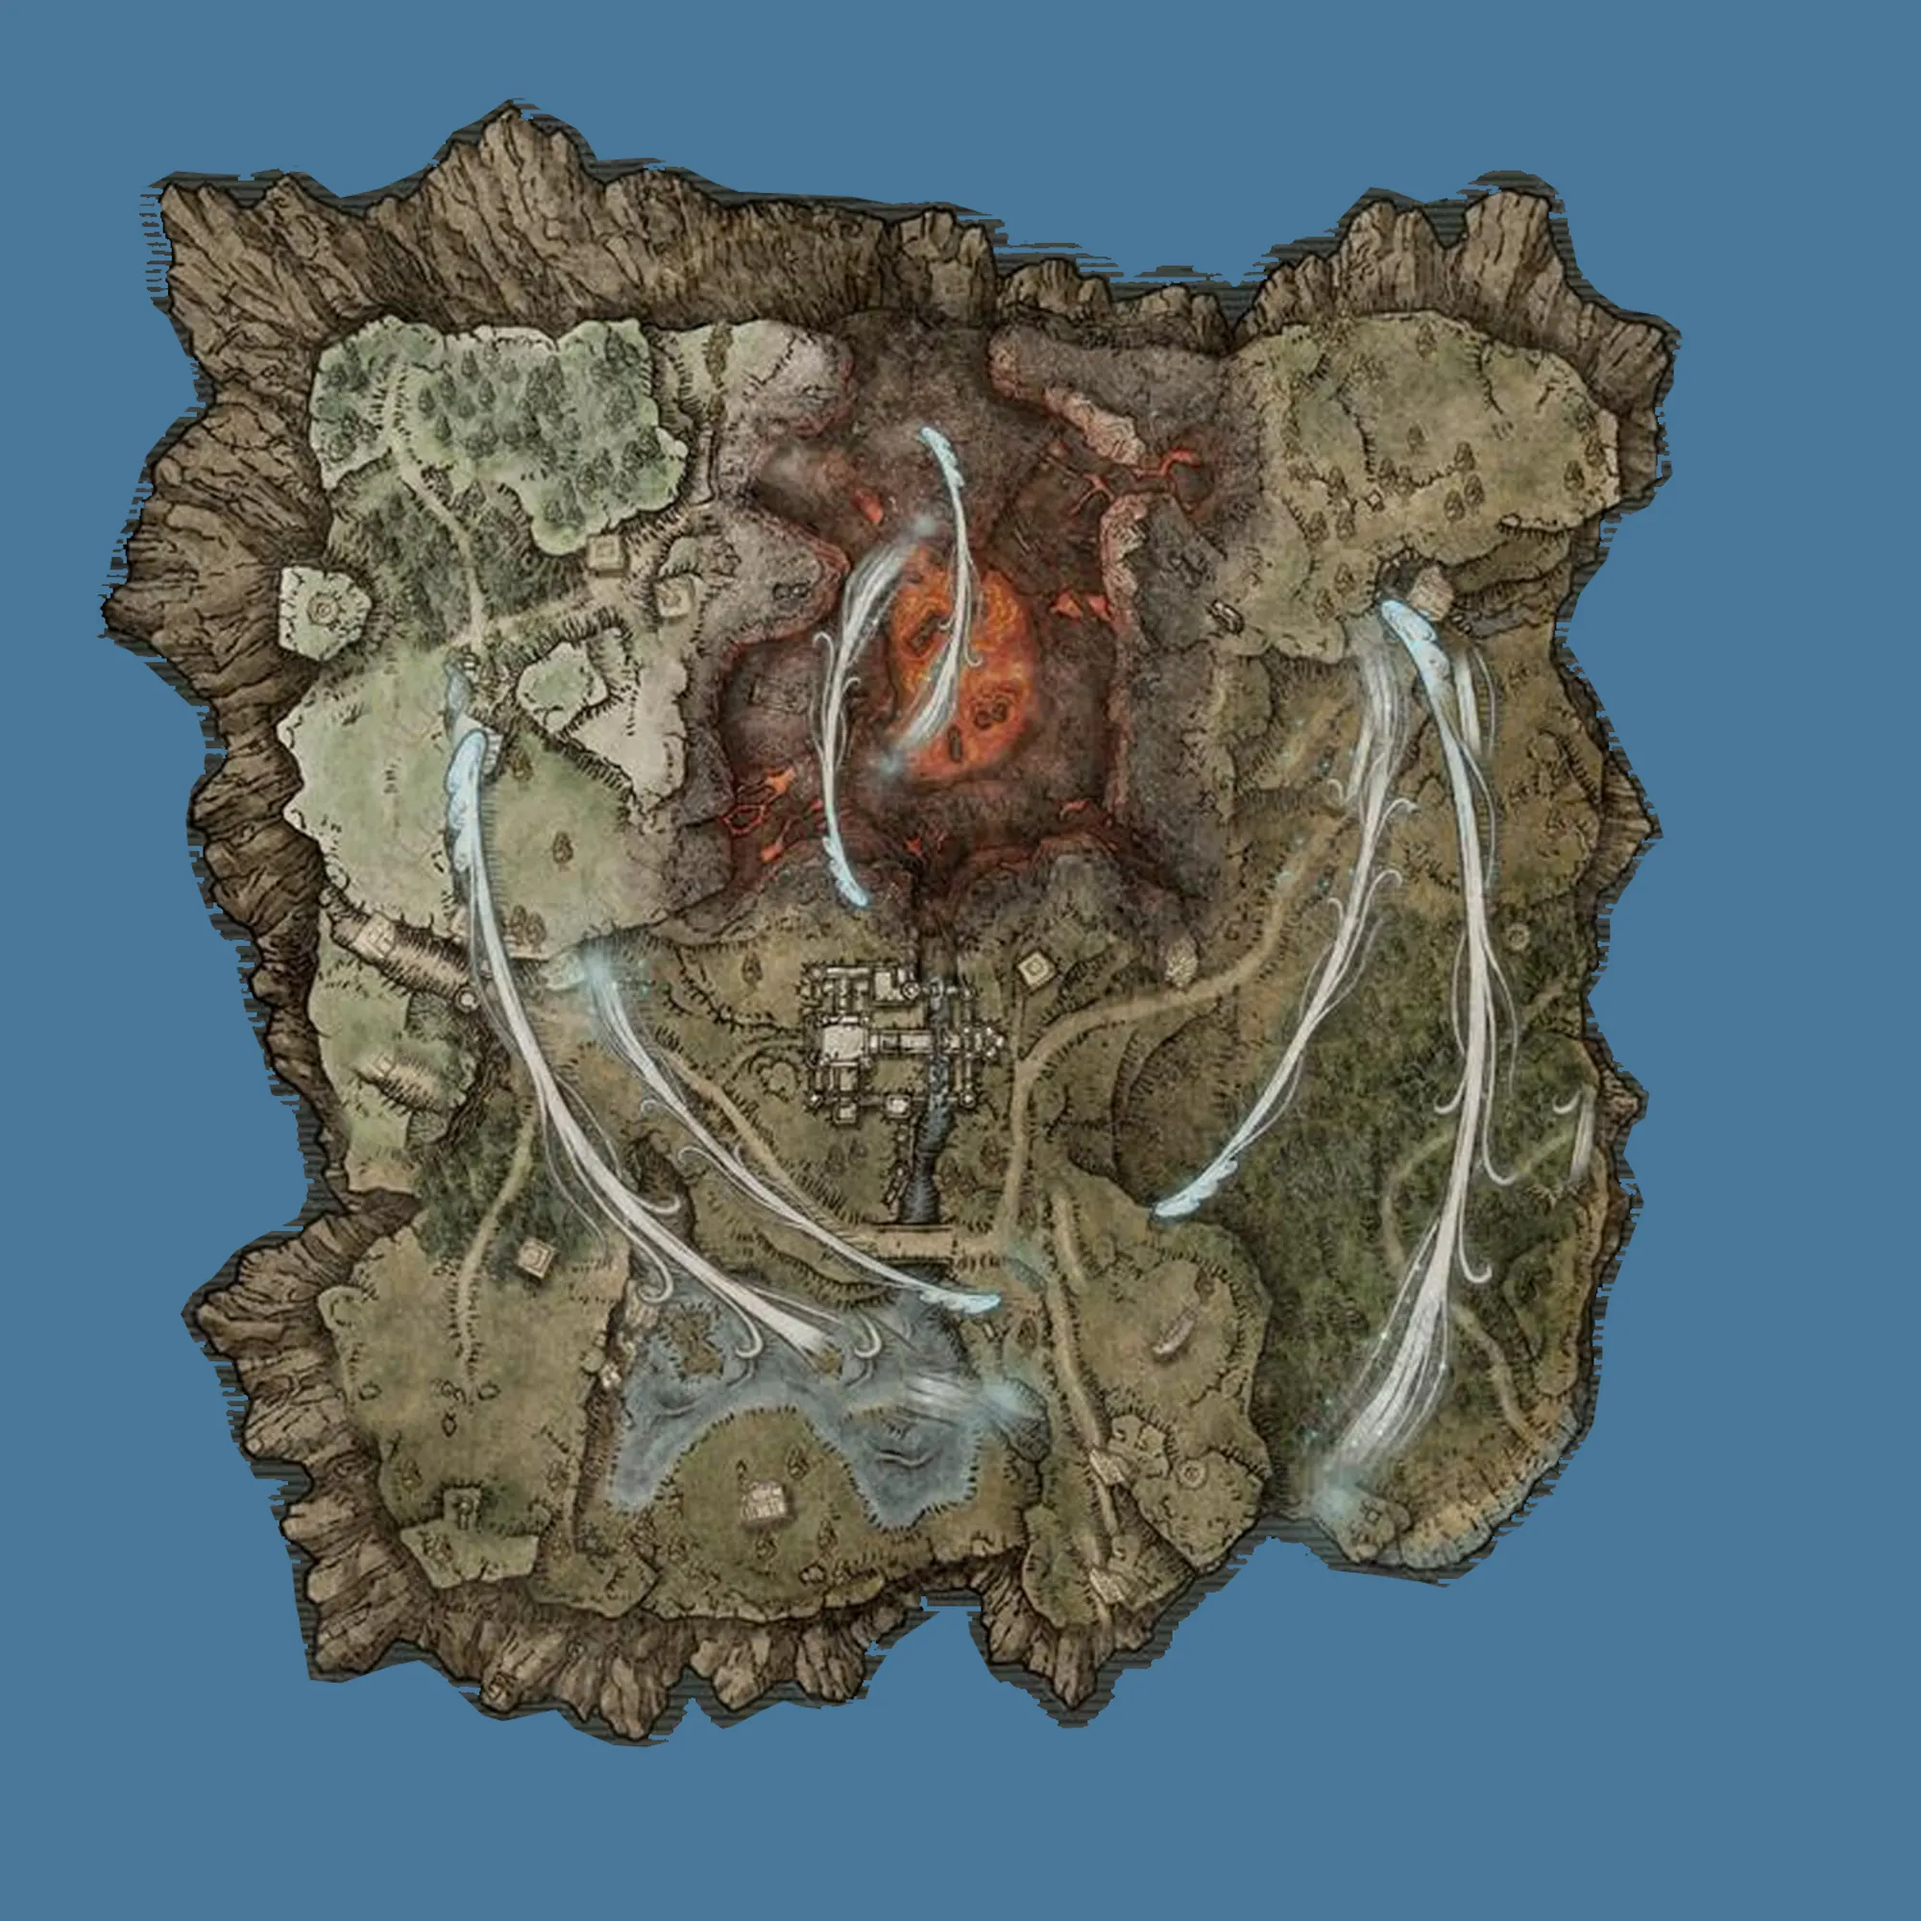
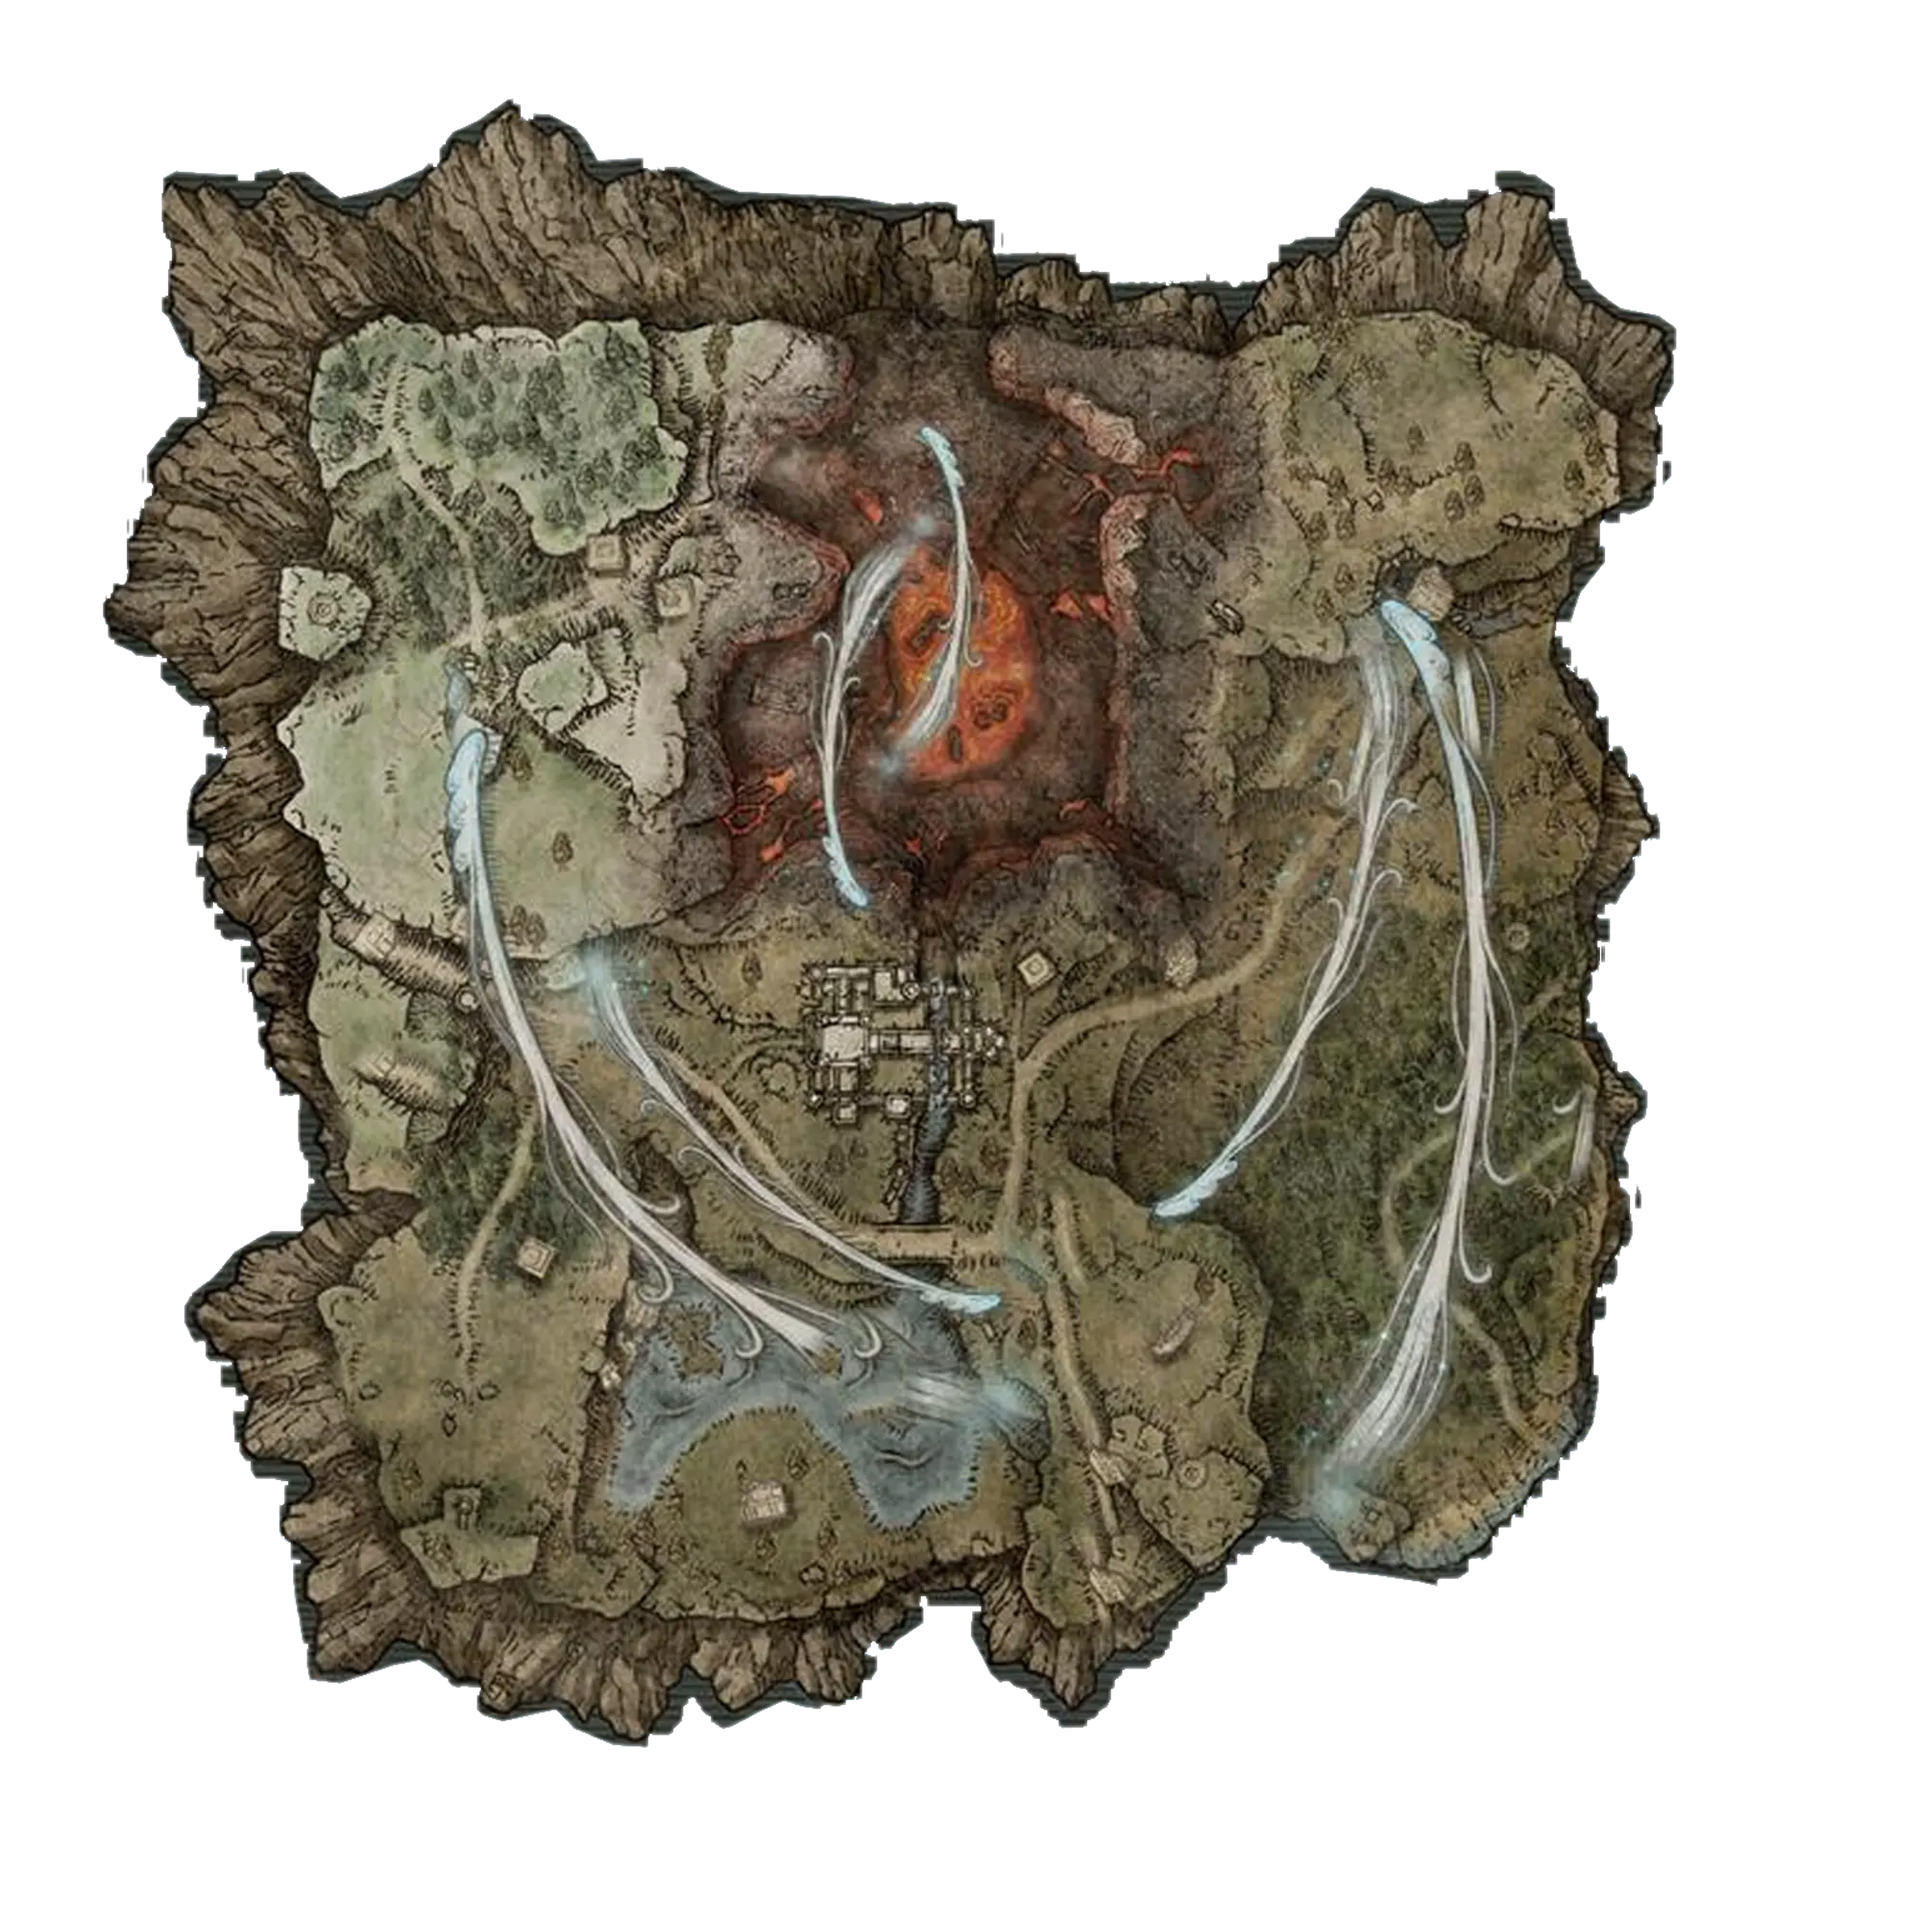
fix: maps sit on the app's black instead of a baked blue ocean slab
The Limveld maps carried a flat blue ocean over ~44% of the image, and Great
Hollow a brown haze, so every map screen showed a big blue or brown square.
The import now flood-fills the background from the image edges (inland water
stays), clears the grey streaks the sources leave off the coast, and feathers
the coastline inward 2px. Same size and framing, so slot coordinates hold.

diff --git a/scripts/import-seeds.ts b/scripts/import-seeds.ts
@@ -217,6 +217,102 @@ function reportCoverage(seeds: any[], bossNotes: Record<string, string>) {
   console.log('structure keys without any icon:', noIcon.length ? noIcon.sort().join(', ') : 'none')
 }
 
+/** How much of a pixel is map (1) rather than background (0). */
+export type Coverage = (r: number, g: number, b: number, a: number) => number
+
+// A flat baked ocean: within HARD of its colour is ocean, beyond SOFT is land, between is the anti-aliased coast.
+export const oceanCoverage = ([or, og, ob]: readonly number[], hard = 24, soft = 72): Coverage => (r, g, b) => {
+  const d = Math.hypot(r - or, g - og, b - ob)
+  return Math.min(1, Math.max(0, (d - hard) / (soft - hard)))
+}
+// A translucent haze around the map (Great Hollow): faint is background, near opaque is map.
+export const hazeCoverage = (clear = 180, solid = 250): Coverage => (_r, _g, _b, a) =>
+  Math.min(1, Math.max(0, (a - clear) / (solid - clear)))
+
+/**
+ * Makes the background that touches the image edges transparent, so the map sits on the app's black.
+ * A flood fill from the edges, not a colour key: water enclosed by land keeps its colour. The fill
+ * only climbs toward the map (or stays level), so it follows a coast's soft edge without leaking
+ * through it into inland water. `feather` px of the coastline are then softened inward, never
+ * outward, so no background colour shows as a fringe. Specks of map no taller than `streak` px,
+ * with cleared background above and below, are cleared too (see below).
+ */
+export function keyBackground(
+  rgba: Uint8Array, width: number, height: number, coverage: Coverage,
+  { feather = 2, streak = 12 }: { feather?: number; streak?: number } = {},
+): Uint8Array {
+  const n = width * height
+  const at = (p: number) => coverage(rgba[p * 4], rgba[p * 4 + 1], rgba[p * 4 + 2], rgba[p * 4 + 3])
+  const cover = new Float32Array(n).fill(1)
+  const seen = new Uint8Array(n)
+  const queue = new Int32Array(n)
+  let head = 0
+  let tail = 0
+  const visit = (p: number, from: number) => {
+    if (seen[p]) return
+    const c = at(p)
+    if (c >= 1 || c + 0.15 < from) return
+    seen[p] = 1
+    cover[p] = c
+    queue[tail++] = p
+  }
+  for (let x = 0; x < width; x++) { visit(x, 0); visit((height - 1) * width + x, 0) }
+  for (let y = 0; y < height; y++) { visit(y * width, 0); visit(y * width + width - 1, 0) }
+  while (head < tail) {
+    const p = queue[head++]
+    const x = p % width
+    const c = cover[p]
+    if (x > 0) visit(p - 1, c)
+    if (x < width - 1) visit(p + 1, c)
+    if (p >= width) visit(p - width, c)
+    if (p < n - width) visit(p + width, c)
+  }
+  // The Limveld sources carry 1-3 px tall grey streaks in the ocean along the coast (a broken
+  // shadow band). A run that short, with cleared ocean above and below, is a streak, not land.
+  const cleared = (p: number) => seen[p] === 1 && cover[p] === 0
+  for (let x = 0; x < width; x++) {
+    let start = -1
+    for (let y = 0; y <= height; y++) {
+      const p = y * width + x
+      const keep = y < height && cover[p] > 0
+      if (keep && start < 0) start = y
+      if (keep || start < 0) continue
+      const above = start === 0 || cleared((start - 1) * width + x)
+      const below = y === height || cleared(p)
+      if (y - start <= streak && above && below) for (let k = start; k < y; k++) cover[k * width + x] = 0
+      start = -1
+    }
+  }
+  const soft = feather > 0 ? boxBlur(cover, width, height, feather) : cover
+  const out = new Uint8Array(rgba)
+  for (let p = 0; p < n; p++) {
+    const c = Math.min(cover[p], soft[p])
+    if (c < 1) out[p * 4 + 3] = Math.round(rgba[p * 4 + 3] * c)
+  }
+  return out
+}
+
+function boxBlur(src: Float32Array, width: number, height: number, r: number): Float32Array {
+  const pass = (from: Float32Array, horizontal: boolean) => {
+    const to = new Float32Array(from.length)
+    const [lines, len] = horizontal ? [height, width] : [width, height]
+    for (let l = 0; l < lines; l++) {
+      const idx = (i: number) => (horizontal ? l * width + i : i * width + l)
+      for (let i = 0; i < len; i++) {
+        let sum = 0
+        let count = 0
+        for (let k = Math.max(0, i - r); k <= Math.min(len - 1, i + r); k++) { sum += from[idx(k)]; count++ }
+        to[idx(i)] = sum / count
+      }
+    }
+    return to
+  }
+  return pass(pass(src, true), false)
+}
+
+// The Limveld maps' baked ocean colour.
+const OCEAN = [73, 119, 153]
+
 async function copyAssets() {
   mkdirSync('public/maps', { recursive: true })
   const maps: Record<string, string> = {
@@ -230,7 +326,12 @@ async function copyAssets() {
     // Great Hollow's source encodes far less cleanly than the others (878 KB at 2000px/q78, over the
     // 500 KB budget); the slot grid is percentage-based, so a smaller image is a safe way to shrink it.
     const [size, quality] = earth === 'great-hollow' ? [1400, 70] : [2000, 78]
-    await image.resize(size, size).webp({ quality }).toFile(`public/maps/${earth}.webp`)
+    // The baked ocean (or Great Hollow's haze) becomes transparent, so the map sits on the app's black.
+    const { data, info } = await image.ensureAlpha().raw().toBuffer({ resolveWithObject: true })
+    const coverage = earth === 'great-hollow' ? hazeCoverage() : oceanCoverage(OCEAN)
+    const keyed = keyBackground(data, info.width, info.height, coverage)
+    await sharp(keyed, { raw: { width: info.width, height: info.height, channels: 4 } })
+      .resize(size, size).webp({ quality }).toFile(`public/maps/${earth}.webp`)
   }
   mkdirSync('public/structures', { recursive: true })
   for (const file of readdirSync('data/raw/assets/icons')) {

diff --git a/scripts/import-seeds.test.ts b/scripts/import-seeds.test.ts
@@ -1,6 +1,6 @@
 import { readFileSync } from 'node:fs'
 import { describe, expect, it } from 'vitest'
-import { toStructureKey, toNightlord, toEvent, hasCjk, toBossNotes } from './import-seeds.ts'
+import { toStructureKey, toNightlord, toEvent, hasCjk, toBossNotes, keyBackground, oceanCoverage } from './import-seeds.ts'
 
 const aliases = JSON.parse(readFileSync('data/raw/aliases.json', 'utf8'))
 
@@ -58,5 +58,64 @@ describe('import translation', () => {
     it('rejects one shown name meaning two bosses', () => {
       expect(() => toBossNotes(details, [['Sentinel', 'tree_sentinel'], ['Sentinel', 'demi_human_queen']])).toThrow(/two bosses/)
     })
+  })
+})
+
+describe('map background keying', () => {
+  const OCEAN = [73, 119, 153] as const
+  const LAND = [120, 100, 60] as const
+  // 11x11: an ocean border two pixels deep, land inside, and a 3x3 "lake" of ocean colour at the centre.
+  const island = () => {
+    const size = 11
+    const rgba = new Uint8Array(size * size * 4)
+    for (let y = 0; y < size; y++) {
+      for (let x = 0; x < size; x++) {
+        const edge = x < 2 || y < 2 || x > 8 || y > 8
+        const lake = x >= 4 && x <= 6 && y >= 4 && y <= 6
+        rgba.set([...(edge || lake ? OCEAN : LAND), 255], (y * size + x) * 4)
+      }
+    }
+    return { rgba, size }
+  }
+  const alphaAt = (rgba: Uint8Array, size: number, x: number, y: number) => rgba[(y * size + x) * 4 + 3]
+
+  it('clears the ocean reached from the edges and keeps an enclosed lake of the same colour', () => {
+    const { rgba, size } = island()
+    const out = keyBackground(rgba, size, size, oceanCoverage(OCEAN), { feather: 0, streak: 3 })
+    expect(alphaAt(out, size, 0, 0)).toBe(0)
+    expect(alphaAt(out, size, 1, 5)).toBe(0)
+    expect(alphaAt(out, size, 5, 5)).toBe(255)
+    expect(alphaAt(out, size, 4, 4)).toBe(255)
+    expect(alphaAt(out, size, 3, 3)).toBe(255)
+  })
+
+  it('feathers the coastline inward without touching the lake', () => {
+    const { rgba, size } = island()
+    const out = keyBackground(rgba, size, size, oceanCoverage(OCEAN), { feather: 1, streak: 3 })
+    expect(alphaAt(out, size, 0, 0)).toBe(0)
+    const coast = alphaAt(out, size, 2, 5)
+    expect(coast).toBeGreaterThan(0)
+    expect(coast).toBeLessThan(255)
+    expect(alphaAt(out, size, 5, 5)).toBe(255)
+  })
+})
+
+describe('map background keying: streaks', () => {
+  it('clears thin horizontal streaks the source leaves in the ocean off the coast', () => {
+    const OCEAN = [73, 119, 153]
+    const GREY = [70, 72, 67]
+    const w = 12
+    const h = 12
+    const rgba = new Uint8Array(w * h * 4)
+    for (let y = 0; y < h; y++) {
+      for (let x = 0; x < w; x++) {
+        const land = x >= 2 && x <= 6 && y >= 2 && y <= 9
+        const streak = y === 5 && x >= 7 && x <= 10
+        rgba.set([...(land || streak ? GREY : OCEAN), 255], (y * w + x) * 4)
+      }
+    }
+    const out = keyBackground(rgba, w, h, oceanCoverage(OCEAN), { feather: 0, streak: 3 })
+    expect(out[(5 * w + 9) * 4 + 3]).toBe(0)
+    expect(out[(5 * w + 4) * 4 + 3]).toBe(255)
   })
 })
